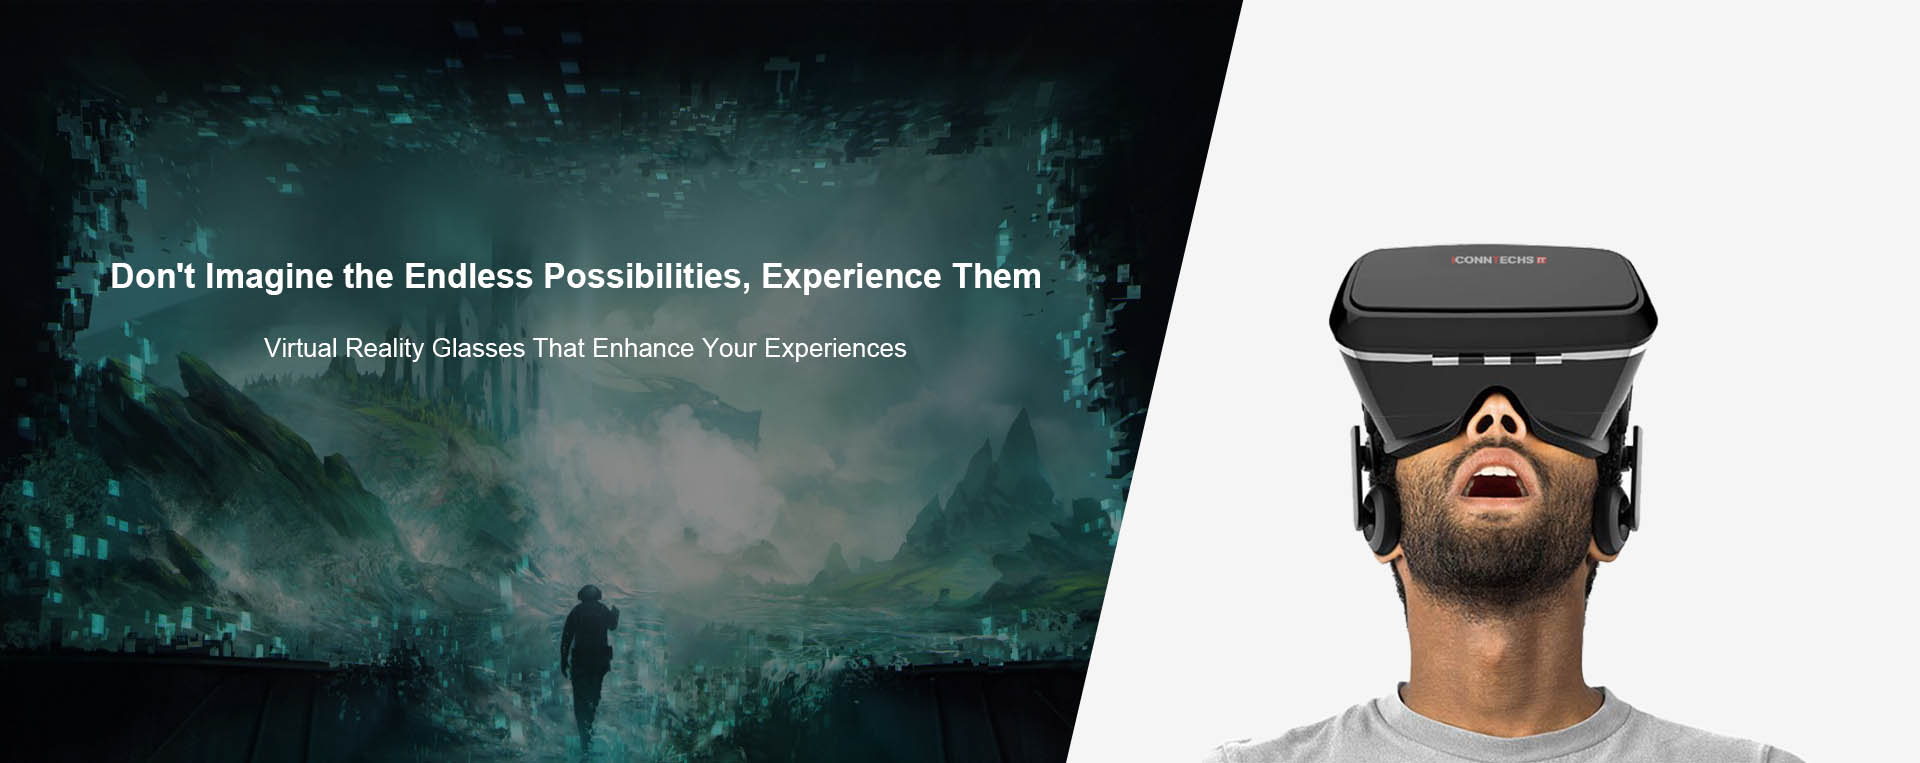
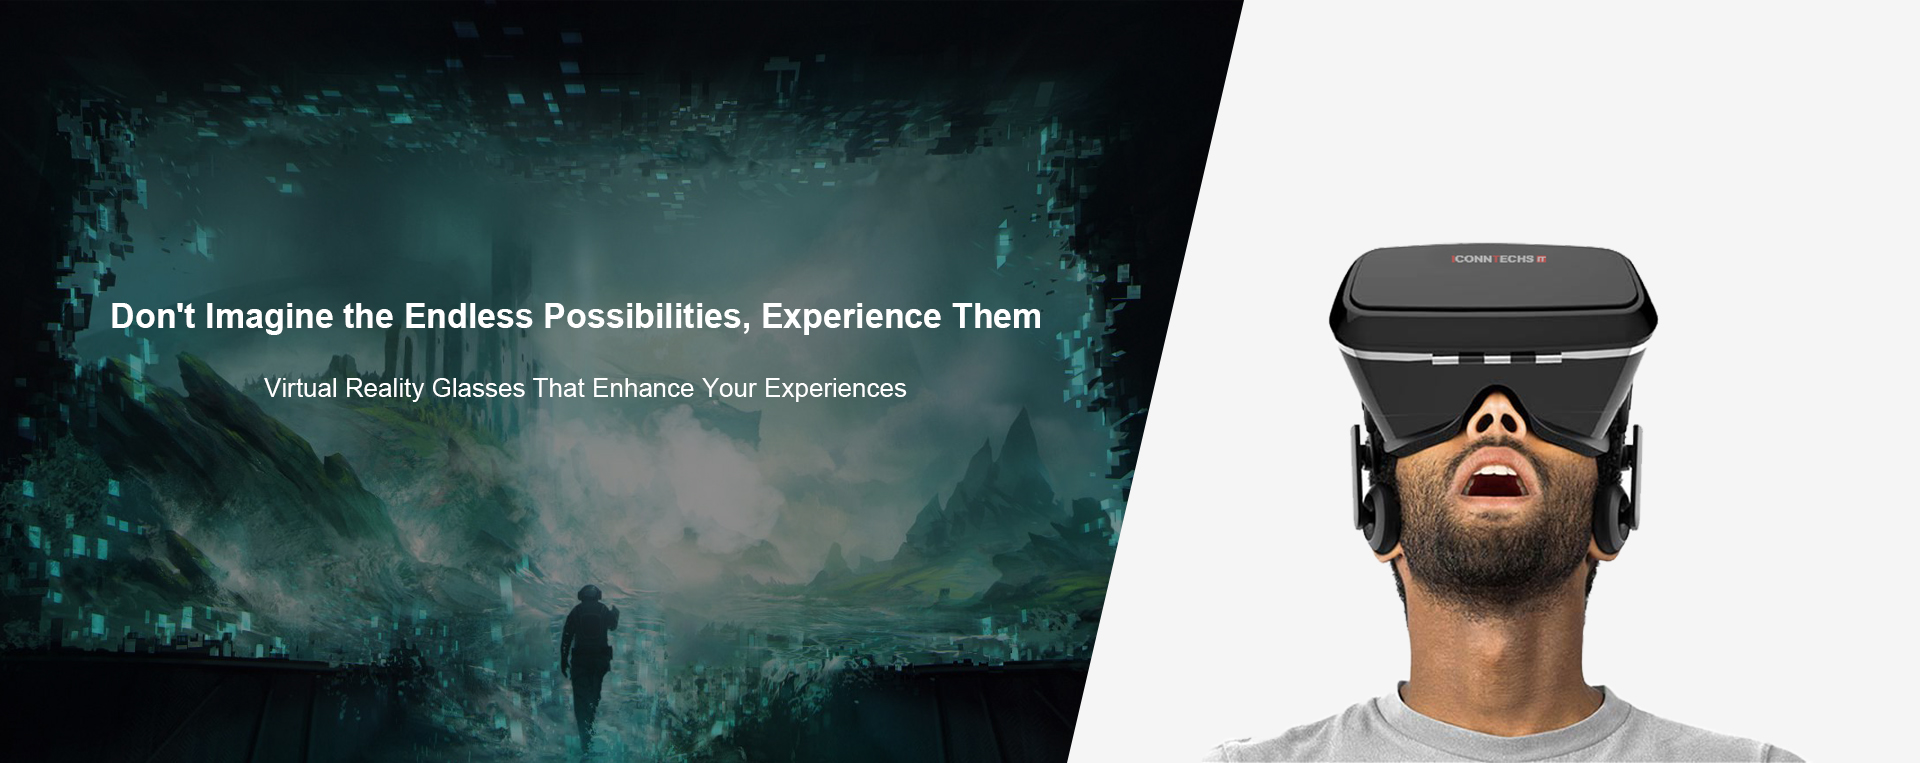
update

diff --git a/wordpress/wp-content/themes/iconntechs/css/land.css b/wordpress/wp-content/themes/iconntechs/css/land.css
@@ -46,7 +46,7 @@ body {
 }
 .hoverBox {
 	width: 100%;
-	height: 230px;
+	height: 200px;
 	position: fixed;
 	bottom: 0;
 	left: 0;
@@ -66,12 +66,12 @@ body {
 	width: 350px;
 	float: left;
 	color: #fff;
-	font-size: 18px;
-	margin-top: 20px;
+	font-size: 24px;
+	/* margin-top: 10px; */
 }
 
 .logoBox p {
-	line-height: 28px;
+	line-height: 42px;
 }
 
 .imgBox {
@@ -99,6 +99,7 @@ body {
 .formBox {
 	width: 435px;
 	float: left;
+	margin-top: 20px;
 }
 
 .formBox p {

diff --git a/wordpress/wp-content/themes/iconntechs/css/moveLand.css b/wordpress/wp-content/themes/iconntechs/css/moveLand.css
@@ -155,11 +155,11 @@ footer .copy {
 .product1 .btn2 {
 	border: 1px solid #FFFFFF !important;
 	color: #FFFFFF !important;
-	bottom: 50.5%;
+	bottom: 10%;
 	left: 33%;
 }
 .product2 .btn2 {
-	bottom: 43.5%;
+	bottom: 46%;
 	left: 32.5%;
 }
 .product3 .btn2 {

diff --git a/wordpress/wp-content/themes/iconntechs/land1.php b/wordpress/wp-content/themes/iconntechs/land1.php
@@ -117,22 +117,22 @@
         </div>
         <div class="product2">
             <img src="<?php bloginfo('template_url');?>/img/move1.jpg" />
-            <a class="btn" href="http://www.amazon.com/dp/B01FS65MCG" onclick="fbq('track', 'InitiateCheckout');">Buy On Amazon</a>
+          <!--   <a class="btn" href="http://www.amazon.com/dp/B01FS65MCG" onclick="fbq('track', 'InitiateCheckout');">Buy On Amazon</a> -->
             <a class="btn2" href="<?php bloginfo('home');?>/index.php/submit/">Register</a>
         </div>
         <div class="product3">
             <img src="<?php bloginfo('template_url');?>/img/move2.jpg" />
-            <a class="btn"  href="http://www.amazon.com/dp/B01FS16U9A" target="_blank" onclick="fbq('track', 'InitiateCheckout');">Buy On Amazon</a>
+            <!-- <a class="btn"  href="http://www.amazon.com/dp/B01FS16U9A" target="_blank" onclick="fbq('track', 'InitiateCheckout');">Buy On Amazon</a> -->
             <a class="btn2" href="<?php bloginfo('home');?>/index.php/submit/">Register</a>
         </div>
         <div class="product4">
             <img src="<?php bloginfo('template_url');?>/img/move3.jpg" />
-            <a class="btn" href="http://www.amazon.com/dp/B01F759GKC" target="_blank" onclick="fbq('track', 'InitiateCheckout');">Buy On Amazon</a>
+           <!--  <a class="btn" href="http://www.amazon.com/dp/B01F759GKC" target="_blank" onclick="fbq('track', 'InitiateCheckout');">Buy On Amazon</a> -->
             <a class="btn2" href="<?php bloginfo('home');?>/index.php/submit/">Register</a>
         </div>
         <div class="product5">
             <img src="<?php bloginfo('template_url');?>/img/move4.jpg" />
-            <a class="btn" href="http://www.amazon.com/dp/B01F70Q236 " target="_blank" onclick="fbq('track', 'InitiateCheckout');">Buy On Amazon</a>
+          <!--   <a class="btn" href="http://www.amazon.com/dp/B01F70Q236 " target="_blank" onclick="fbq('track', 'InitiateCheckout');">Buy On Amazon</a> -->
             <a class="btn2" href="<?php bloginfo('home');?>/index.php/submit/">Register</a>
         </div>
         <footer>
@@ -191,19 +191,19 @@
         </div>
 		<div class="product2">
 			<img src="<?php bloginfo('template_url');?>/img/1.jpg" />
-			<a class="btn" href="http://www.amazon.com/dp/B01FS65MCG" target="_blank" onclick="fbq('track', 'InitiateCheckout');">Buy On Amazon</a>
+			<!-- <a class="btn" href="http://www.amazon.com/dp/B01FS65MCG" target="_blank" onclick="fbq('track', 'InitiateCheckout');">Buy On Amazon</a> -->
 		</div>
 		<div class="product3">
 			<img src="<?php bloginfo('template_url');?>/img/2.jpg" />
-			<a class="btn" href="http://www.amazon.com/dp/B01FS16U9A" target="_blank" onclick="fbq('track', 'InitiateCheckout');">Buy On Amazon</a>
+			<!-- <a class="btn" href="http://www.amazon.com/dp/B01FS16U9A" target="_blank" onclick="fbq('track', 'InitiateCheckout');">Buy On Amazon</a> -->
 		</div>
 		<div class="product4">
 			<img src="<?php bloginfo('template_url');?>/img/3.jpg" />
-			<a class="btn" href="http://www.amazon.com/dp/B01F759GKC" target="_blank" onclick="fbq('track', 'InitiateCheckout');">Buy On Amazon</a>
+			<!-- <a class="btn" href="http://www.amazon.com/dp/B01F759GKC" target="_blank" onclick="fbq('track', 'InitiateCheckout');">Buy On Amazon</a> -->
 		</div>
 		<div class="product5">
 			<img src="<?php bloginfo('template_url');?>/img/4.jpg" />
-			<a class="btn" href="http://www.amazon.com/dp/B01F70Q236 " target="_blank" onclick="fbq('track', 'InitiateCheckout');">Buy On Amazon</a>
+			<!-- <a class="btn" href="http://www.amazon.com/dp/B01F70Q236 " target="_blank" onclick="fbq('track', 'InitiateCheckout');">Buy On Amazon</a> -->
 		</div>
 		<footer>
 			<p><a class="faceBook" href="https://business.facebook.com/iconntechs/?business_id=159600407712495" target="_blank"></a> &nbsp; &nbsp; &nbsp;<a class="Google" href="https://twitter.com/Iconntechs1" target="_blank"></a> </p>
@@ -212,8 +212,8 @@
 		<div class="hoverBox">
 			 <div class="middleContentBox">
 			 	 <div class="logoBox">
-			 	 	<img src="<?php bloginfo('template_url');?>/img/ICONN.png" />
-			 	 	<p >Register Now to Get 25% off Coupon for Purchase Before 10th June</p>
+			 	 	<!-- <img src="<?php bloginfo('template_url');?>/img/ICONN.png" /> -->
+			 	 	<p>More Referrals,More Products, Sign Up Before 18th June</p>
 			 	 </div>
 			 	 <div class="imgBox">
 			 	 	<img src="<?php bloginfo('template_url');?>/img/tutu.png" />
@@ -221,8 +221,8 @@
 			 	 <div class="formBox">
 			 	 	 <form id="regform" name="regform" action="<?php bloginfo('home');?>/index.php/registrationcompletion/" method="post">
 			 	 	 	<p><input type="text" id="email" name="email" placeholder="Email" required="required" /></p> 
-			 	 	 	<p><input type="password" id="password" name="password" placeholder="Password" required="required" /></p> 
-			 	 	 	<p><input type="submit" value="SUBMIT"/></p>
+			 	 	 	<!-- <p><input type="password" id="password" name="password" placeholder="Password" required="required" /></p>  -->
+			 	 	 	<p><input type="submit" value="SIGN UP NOW"/></p>
 			 	 	 </form>
 			 	</div>
 			 </div>

diff --git a/wordpress/wp-content/themes/iconntechs/moveSubmit.php b/wordpress/wp-content/themes/iconntechs/moveSubmit.php
@@ -37,13 +37,13 @@
 	</head>
 
 	<body>
-		<p class="propmt">Register Now to Get 25% off Coupon for Purchase Before 10th June</p>
+		<p class="propmt">More Referrals,More Products, Sign Up Before 18th June</p>
 		<div>
 			<img src="<?php bloginfo('template_url');?>/img/samllPic.png" />
 		</div>
-		<form id="regform" name="regform" action="<?php bloginfo('home');?>/index.php/land-register/" method="post">
+		<form id="regform" name="regform" action="<?php bloginfo('home');?>/index.php/registrationcompletion/" method="post">
 			<p><input type="email" name="email" placeholder="Email" required/></p>
-			<p><input type="password" name="password" placeholder="Password" required/></p>
+		<!-- 	<p><input type="password" name="password" placeholder="Password" required/></p> -->
 			<p><input type="submit" value="SUBMIT" /></p>
 		</form>
 		<p><a class="faceBook"  href="https://business.facebook.com/iconntechs/?business_id=159600407712495" target="_blank"></a> &nbsp; &nbsp; &nbsp;<a class="Google" href="https://twitter.com/Iconntechs1" target="_blank"></a> </p>

diff --git a/wordpress/wp-content/themes/iconntechs/success.php b/wordpress/wp-content/themes/iconntechs/success.php
@@ -77,9 +77,8 @@ global $wpdb;
 $invite_id = $_GET['invite'];
 
 if(!empty($_POST['email'])){
+	$password = range(111111,999999);
 	
-	
-	$password = $_POST['password'];
 	$invite_id = $_POST['invite_id'];
 	if(!filter_var($_POST['email'], FILTER_VALIDATE_EMAIL))
 	 {
